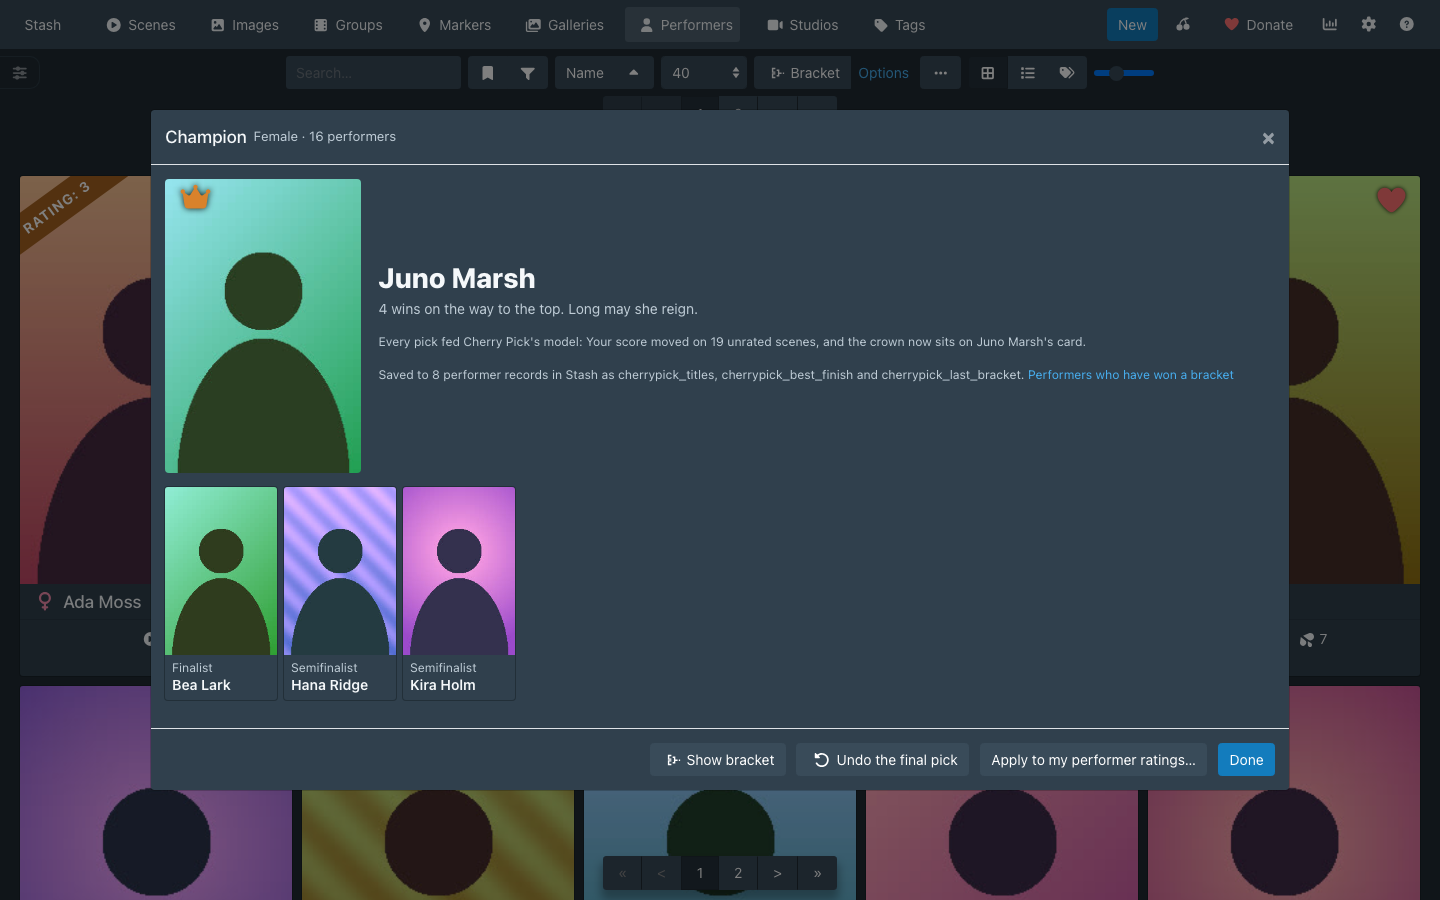
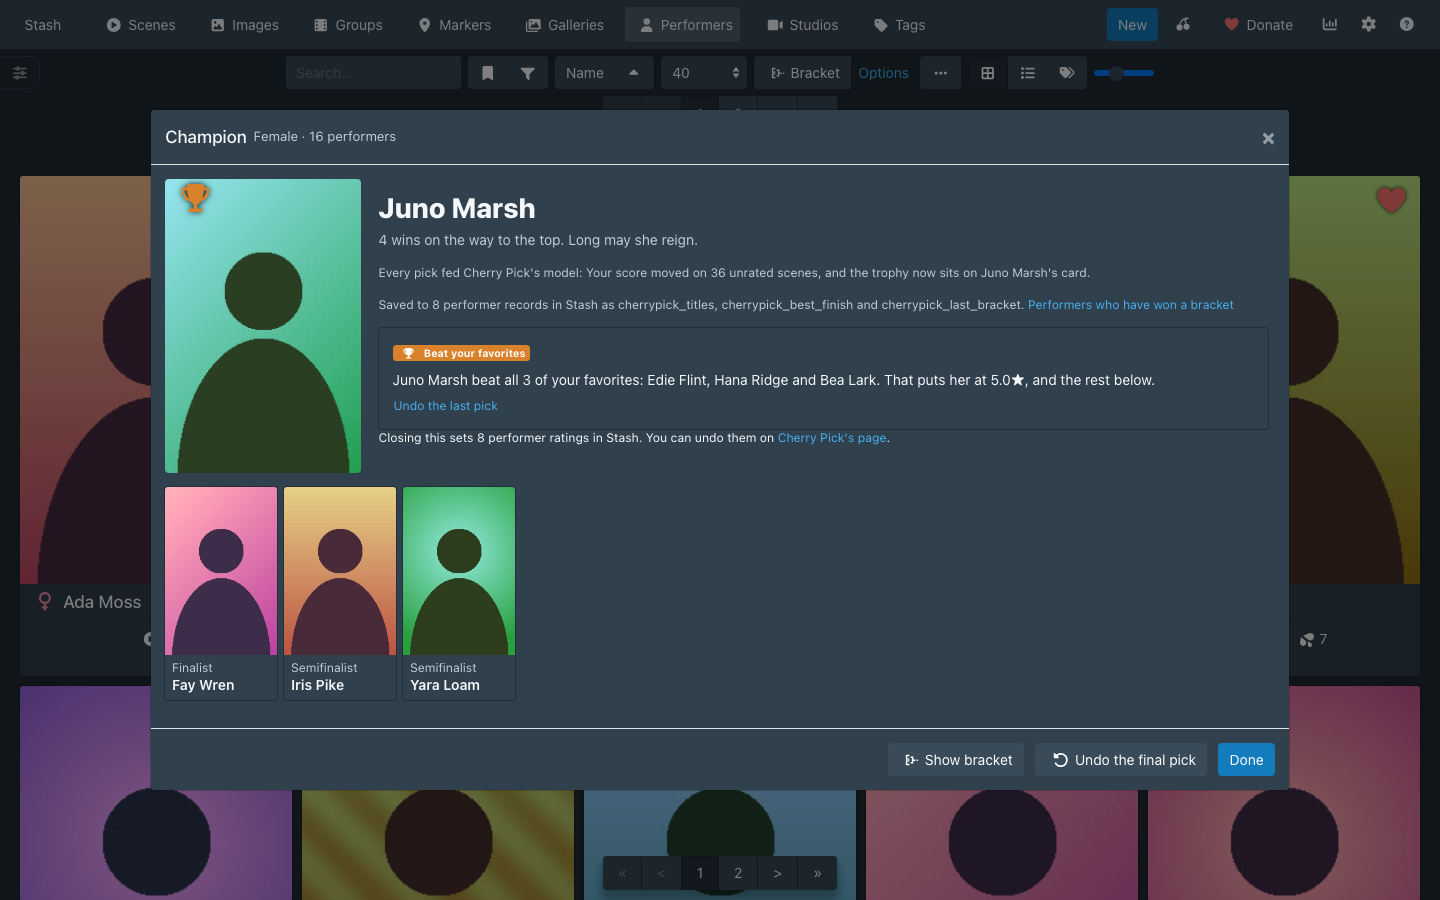
Retake the champion screenshot with the Challenge round
champion.png predates the Challenge round, so it showed no card for it.
The new one is the won state: the champion beat all three favorites, so
the trophy sits on her photo and the card shows the "Beat your favorites"
badge, the favorites she beat and the rating that puts her at. With Apply
bracket ratings automatically on, as it starts, the screen has no Apply
button and says closing it sets 8 performer ratings.

Staged as the brackets contract spec's Challenge round test does: every
demo performer and scene unrated but three Female performers (20, 70 and
100), a 16-performer bracket played to its champion, then the round won.
Taken on a throwaway Stash v0.31.1 with the demo library, Cherry Pick
alone enabled, Chromium at 1440x900, as before.

diff --git a/plugins/cherrypick/README.md b/plugins/cherrypick/README.md
@@ -69,9 +69,9 @@ In a performer bracket, a performer you haven't rated who is in two or more scen
 
 With Apply bracket ratings automatically on, under Settings > Plugins, the champion screen has no Apply button: closing it sets those ratings, and says how many first. While nothing places the champion yet (before its Challenge round, or after a skip with no stars given), the screen says closing would set no ratings. Cherry Pick's page lists each batch with Undo. The switch starts on, and off while Ascension, HotOrNot, Xenith or Restash's mirror writes your ratings, since their rankings would take up every rating without a preview. It follows those plugins until you set it yourself.
 
-| Playing                                                                   | The champion                                                                       |
-| ------------------------------------------------------------------------- | ---------------------------------------------------------------------------------- |
-| ![Two performers side by side in a bracket](docs/screenshots/bracket.png) | ![The champion with the finalist and semifinalists](docs/screenshots/champion.png) |
+| Playing                                                                   | The champion                                                                                                                     |
+| ------------------------------------------------------------------------- | -------------------------------------------------------------------------------------------------------------------------------- |
+| ![Two performers side by side in a bracket](docs/screenshots/bracket.png) | ![A champion who beat your favorites in the Challenge round, with the finalist and semifinalists](docs/screenshots/champion.png) |
 
 ### StashDB
 
